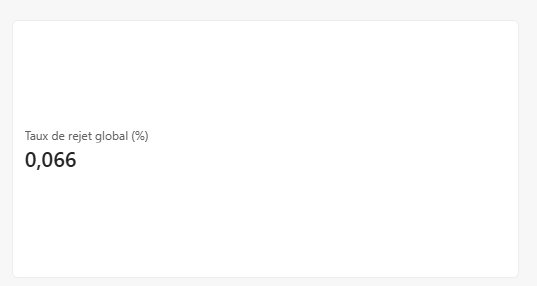
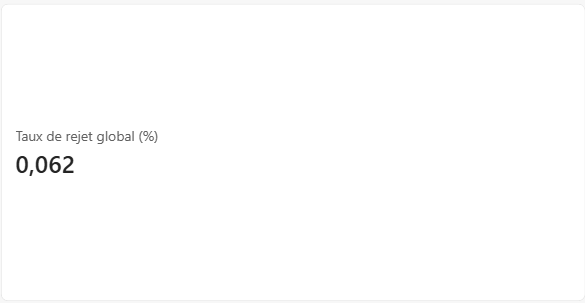
docs(S5): captures du 8 octobre et taux de rejet global à 0,062 %

Changed region(s): [[0.0, 0.4196, 0.298, 0.5874]]

diff --git a/docs/dictionnaire_indicateurs.md b/docs/dictionnaire_indicateurs.md
@@ -61,9 +61,16 @@ contrôlé. Le rapport affiche `—` et un avertissement.
 | **Seuil d'alerte** | **5 %**, comme le taux par source |
 
 **Pourquoi il existe.** Le tableau de bord affichait la **moyenne des taux par
-source** — 0,04 % —, qui donne le même poids à une source de 1,5 million de
-lignes et à une source de 85 000. Le taux global, lui, se calcule sur le total
-des lignes : **0,066 %**. Un taux ne se moyenne pas, il se recalcule.
+source** — 0,02 % avec les trois sources actuelles —, qui donne le même poids à
+une source de 1,5 million de lignes et à une source de 85 000. Le taux global,
+lui, se calcule sur le total des lignes : **0,062 %**. Un taux ne se moyenne
+pas, il se recalcule.
+
+**Un doublon à connaître.** `catalogue` et `rakuten` déposent le même fichier
+sous deux noms : ses 84 916 lignes comptent deux fois au dénominateur. Compté
+une seule fois, le taux global serait de 0,066 %. L'écart est faible ; le
+chiffre affiché est celui de `quarantaine.v_taux_rejet_global`, sur les trois
+sources.
 
 **Ce qu'il ne dit pas.** Il ne remplace pas le taux par source : une source
 isolée peut dépasser 5 % sans que le global bouge, parce qu'elle pèse peu. **Le

diff --git a/docs/captures/README.md b/docs/captures/README.md
@@ -6,10 +6,14 @@ Le fichier source est `dashboards/ventes.pbix`.
 | Capture | Ce qu'elle montre |
 |---|---|
 | `qualite-page-complete.png` | La page Qualité entière |
-| `qualite-taux-global.png` | Taux de rejet global : 0,066 % |
-| `qualite-par-source.png` | 1 073 rejets sur 1 550 922 lignes, olist et rakuten |
+| `qualite-taux-global.png` | Taux de rejet global : 0,062 % |
+| `qualite-par-source.png` | 1 073 rejets sur 1 550 922 lignes (olist), et les sources catalogue et rakuten |
 | `qualite-par-regle.png` | Les avis concentrent l'essentiel des rejets |
 | `qualite-par-gravite.png` | Répartition bloquante / non bloquante |
 
-⚠ Les visuels par règle et par gravité cumulent les rejets de **toutes** les
-exécutions, pas seulement la dernière. Correction prévue au Sprint 4.
+Les visuels par règle et par gravité portent sur la **dernière exécution** de
+chaque source (vues `sql/012_vues_rejets_derniere_ingestion.sql`) : les barres
+totalisent 1 073 rejets, comme le tableau par source.
+
+`catalogue` et `rakuten` déposent le même fichier sous deux noms : le taux
+global (0,062 %) les compte tous deux. Voir le dictionnaire des indicateurs.
